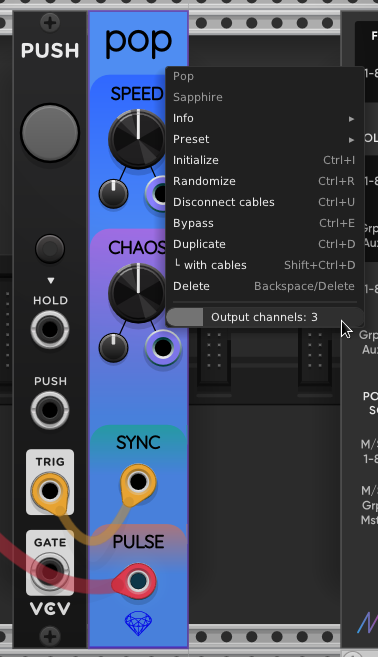
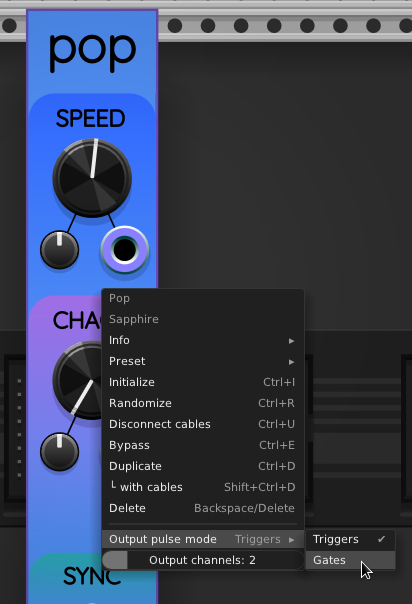
Pop: fixed #63 - toggle output mode between triggers and gates.

diff --git a/src/pop_engine.hpp b/src/pop_engine.hpp
@@ -25,6 +25,12 @@ namespace Sapphire
             Quiet,      // stay quiet for 1 millisecond after firing, before waiting again
         };
 
+        enum class OutputMode
+        {
+            Trigger,
+            Gate,
+        };
+
         class Engine
         {
         public:
@@ -37,6 +43,8 @@ namespace Sapphire
             {
                 secondsRemaining = 0;
                 state = TriggerState::Reset;
+                gate = false;
+                prevTriggerVoltage = 0;
             }
 
             void setRandomSeed(unsigned rs)
@@ -56,9 +64,20 @@ namespace Sapphire
                 return chaos;
             }
 
+            OutputMode getOutputMode() const
+            {
+                return outputMode;
+            }
+
+            void setOutputMode(OutputMode mode)
+            {
+                outputMode = mode;
+            }
+
             float process(double sampleRate)
             {
                 const double dt = 1 / sampleRate;
+                float triggerVoltage = 0;
 
                 switch (state)
                 {
@@ -67,7 +86,8 @@ namespace Sapphire
                     gen.seed(randomSeed);
                     secondsRemaining = nextWaitInterval();
                     state = TriggerState::Waiting;
-                    return 0;
+                    triggerVoltage = 0;
+                    break;
 
                 case TriggerState::Waiting:
                     secondsRemaining -= dt * std::pow(2.0, static_cast<double>(speed));
@@ -76,9 +96,11 @@ namespace Sapphire
                         // Time to fire a trigger!
                         state = TriggerState::Firing;
                         secondsRemaining = 0.001 - 1/sampleRate;
-                        return 10;
+                        triggerVoltage = 10;
                     }
-                    return 0;
+                    else
+                        triggerVoltage = 0;
+                    break;
 
                 case TriggerState::Firing:
                     secondsRemaining -= dt;
@@ -87,9 +109,11 @@ namespace Sapphire
                         // Stop firing the trigger. Go to zero volts for another millisecond.
                         state = TriggerState::Quiet;
                         secondsRemaining = 0.001 - 1/sampleRate;
-                        return 0;
+                        triggerVoltage = 0;
                     }
-                    return 10;
+                    else
+                        triggerVoltage = 10;
+                    break;
 
                 case TriggerState::Quiet:
                     secondsRemaining -= dt;
@@ -101,7 +125,23 @@ namespace Sapphire
                         // Deduct the 2-millisecond trigger cycle (1ms @ 10V, 1ms @ 0V).
                         secondsRemaining = nextWaitInterval() - 0.002;
                     }
-                    return 0;
+                    triggerVoltage = 0;
+                    break;
+                }
+
+                if (prevTriggerVoltage < 1 && triggerVoltage > 1)
+                    gate = !gate;
+
+                prevTriggerVoltage = triggerVoltage;
+
+                switch (outputMode)
+                {
+                case OutputMode::Gate:
+                    return gate ? 10 : 0;
+
+                case OutputMode::Trigger:
+                default:
+                    return triggerVoltage;
                 }
             }
 
@@ -118,6 +158,9 @@ namespace Sapphire
             }
 
         private:
+            OutputMode outputMode = OutputMode::Trigger;
+            bool gate = false;
+            float prevTriggerVoltage = 0;
             unsigned randomSeed = 8675309;
             double speed = DEFAULT_POP_SPEED;
             double chaos = DEFAULT_POP_CHAOS;

diff --git a/src/pop_vcv.cpp b/src/pop_vcv.cpp
@@ -90,6 +90,7 @@ namespace Sapphire
             {
                 json_t* root = SapphireModule::dataToJson();
                 json_object_set_new(root, "channels", json_integer(desiredChannelCount()));
+                json_object_set_new(root, "outputMode", json_integer(getOutputMode()));
                 return root;
             }
 
@@ -100,8 +101,15 @@ namespace Sapphire
                 if (json_is_integer(channels))
                 {
                     json_int_t n = json_integer_value(channels);
-                    if (n >= 1 && n <= 16)
+                    if (n >= 1 && n <= PORT_MAX_CHANNELS)
                         channelCountQuantity->value = static_cast<float>(n);
+                }
+
+                json_t* outputMode = json_object_get(root, "outputMode");
+                if (json_is_integer(outputMode))
+                {
+                    size_t index = json_integer_value(outputMode);
+                    setOutputMode(index);
                 }
             }
 
@@ -136,6 +144,20 @@ namespace Sapphire
             {
                 return channelCountQuantity->getDesiredChannelCount();
             }
+
+            size_t getOutputMode() const
+            {
+                // We keep the output modes always in sync.
+                // So the first channel's state is our single source of truth.
+                return static_cast<size_t>(engine[0].getOutputMode());
+            }
+
+            void setOutputMode(size_t index)
+            {
+                OutputMode mode = static_cast<OutputMode>(index);
+                for (int c = 0; c < PORT_MAX_CHANNELS; ++c)
+                    engine[c].setOutputMode(mode);
+            }
         };
 
 
@@ -169,8 +191,24 @@ namespace Sapphire
                 if (popModule != nullptr)
                 {
                     menu->addChild(new MenuSeparator);
+                    addOutputModeMenuItems(menu);
                     menu->addChild(new ChannelCountSlider(popModule->channelCountQuantity));
                 }
+            }
+
+            void addOutputModeMenuItems(Menu* menu)
+            {
+                std::vector<std::string> labels {
+                    "Triggers",
+                    "Gates"
+                };
+
+                menu->addChild(createIndexSubmenuItem(
+                    "Output pulse mode",
+                    labels,
+                    [=]() { return popModule->getOutputMode(); },
+                    [=](size_t mode) { popModule->setOutputMode(mode); }
+                ));
             }
         };
     }

diff --git a/Pop.md b/Pop.md
@@ -6,15 +6,26 @@ Sapphire Pop is a polyphonic trigger generator that can simulate the statistical
 behavior of radioactive decay, or generate completely regular pulses,
 or anywhere on a spectrum between these extremes.
 
+## Context menu
+
+When you right-click on Pop's panel, the following context menu appears:
+
+![Pop context menu](images/pop_menu.png)
+
+It allows you to control the output channel count and output pulse mode.
+
 ## Output channel count
 
-By right-clicking on Pop's panel, you will see a slider that allows you
+The output channel count slider in the context menu allows you
 to select a number of channels in the range 1..16. By default, Pop outputs
 a pulse trigger that has a single channel. By changing this slider setting,
 you can tell Pop to output up to 16 polyphonic channels from the PULSE port.
 This results in up to 16 independent pulse generators.
 
-![Pop context menu](images/pop_menu.png)
+## Output pulse mode
+
+You can select whether the [PULSE output port](#pulse-output) should produce triggers or gates.
+By default Pop outputs triggers.
 
 ## SPEED control group
 
@@ -54,14 +65,16 @@ The final channel in the cable "normals forward" to all remaining pulse channels
 Therefore, the monophonic case isn't actually special: the single supplied channel
 normals forward to all 1..16 pulse engines.
 
-## PULSE trigger output
+## PULSE output
 
-PULSE is a polyphonic trigger output. Most of the time, each channel voltage is zero.
+PULSE is a polyphonic output port. You can select from the available output modes
+in the [context menu](#context-menu):
+
+* **Triggers**: Most of the time, each channel voltage is zero.
 When a pulse occurs on channel, the voltage immediately jumps to 10&nbsp;V and stays
-there for one millisecond. Then the voltage goes back to 0&nbsp;V for another millisecond.
-
-After that, a pulse can occur again at any time. This results in a maximum possible
+there for one millisecond. Then the voltage goes back to 0&nbsp;V for another millisecond. After that, a pulse can occur again at any time. This results in a maximum possible
 instantaneous pulse rate of 500&nbsp;Hz, even though the mean pulse rate is clamped to 256&nbsp;Hz.
+* **Gates**: In gate mode, the output starts at zero volts. Every time a pulse occurs, the output is toggled between 0&nbsp;V and +10&nbsp;V. This results in a series of gates that occur between every alternating pair of pulses. The maximum mean square wave frequency is thus half the maximum mean pulse rate, i.e., 128&nbsp;Hz.
 
 ## Polyphonic CV
 
